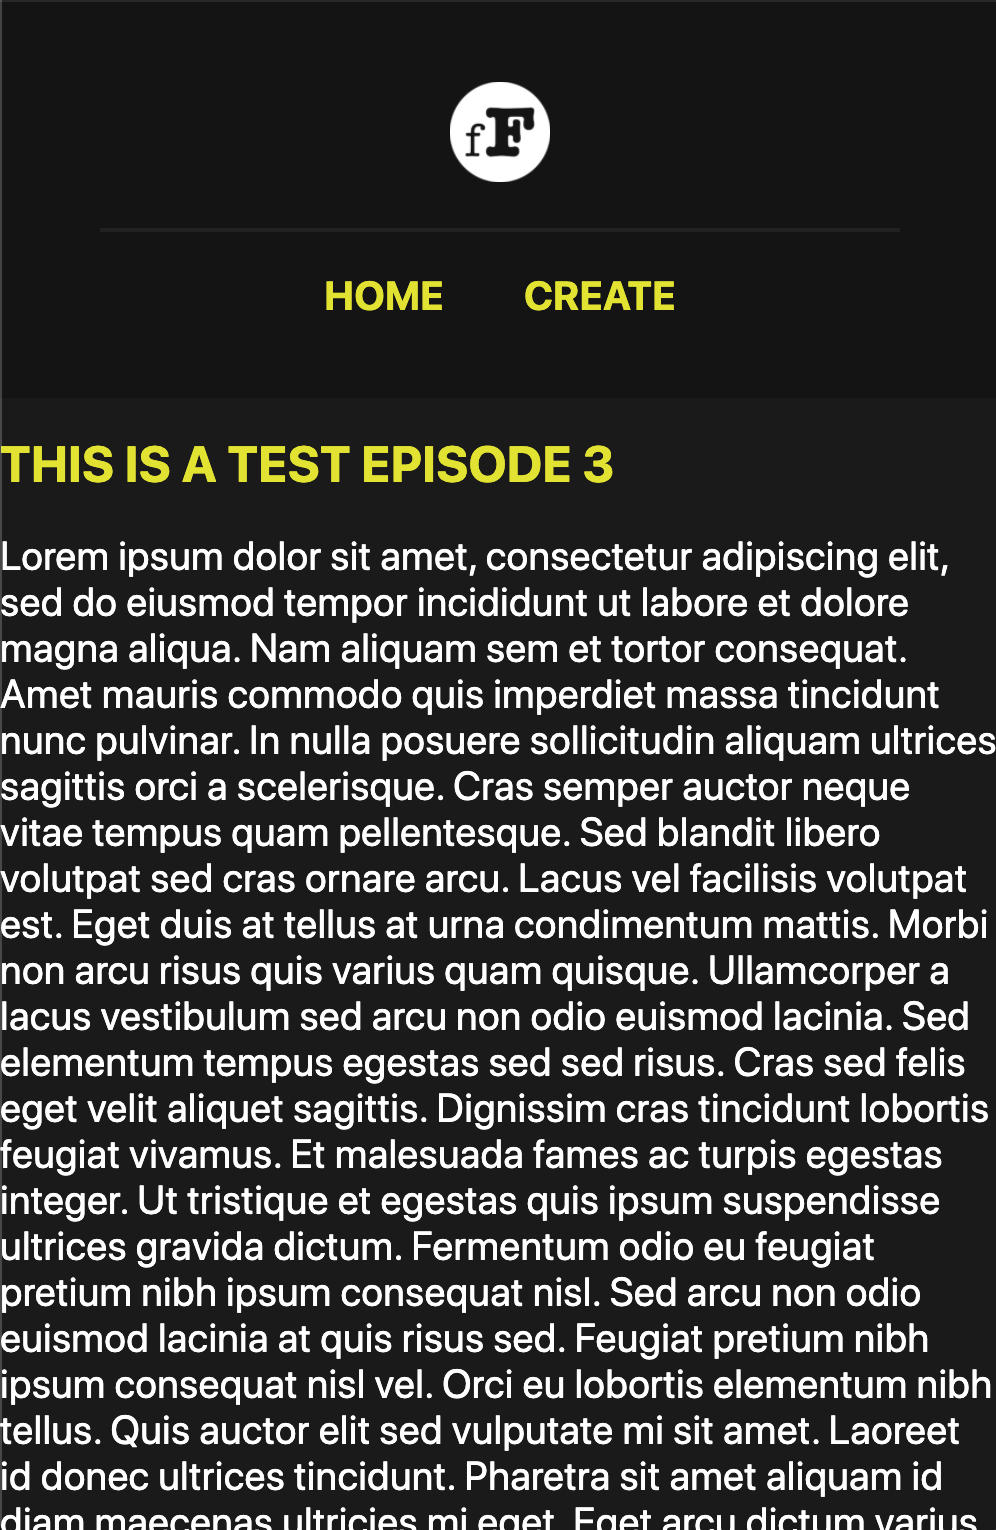
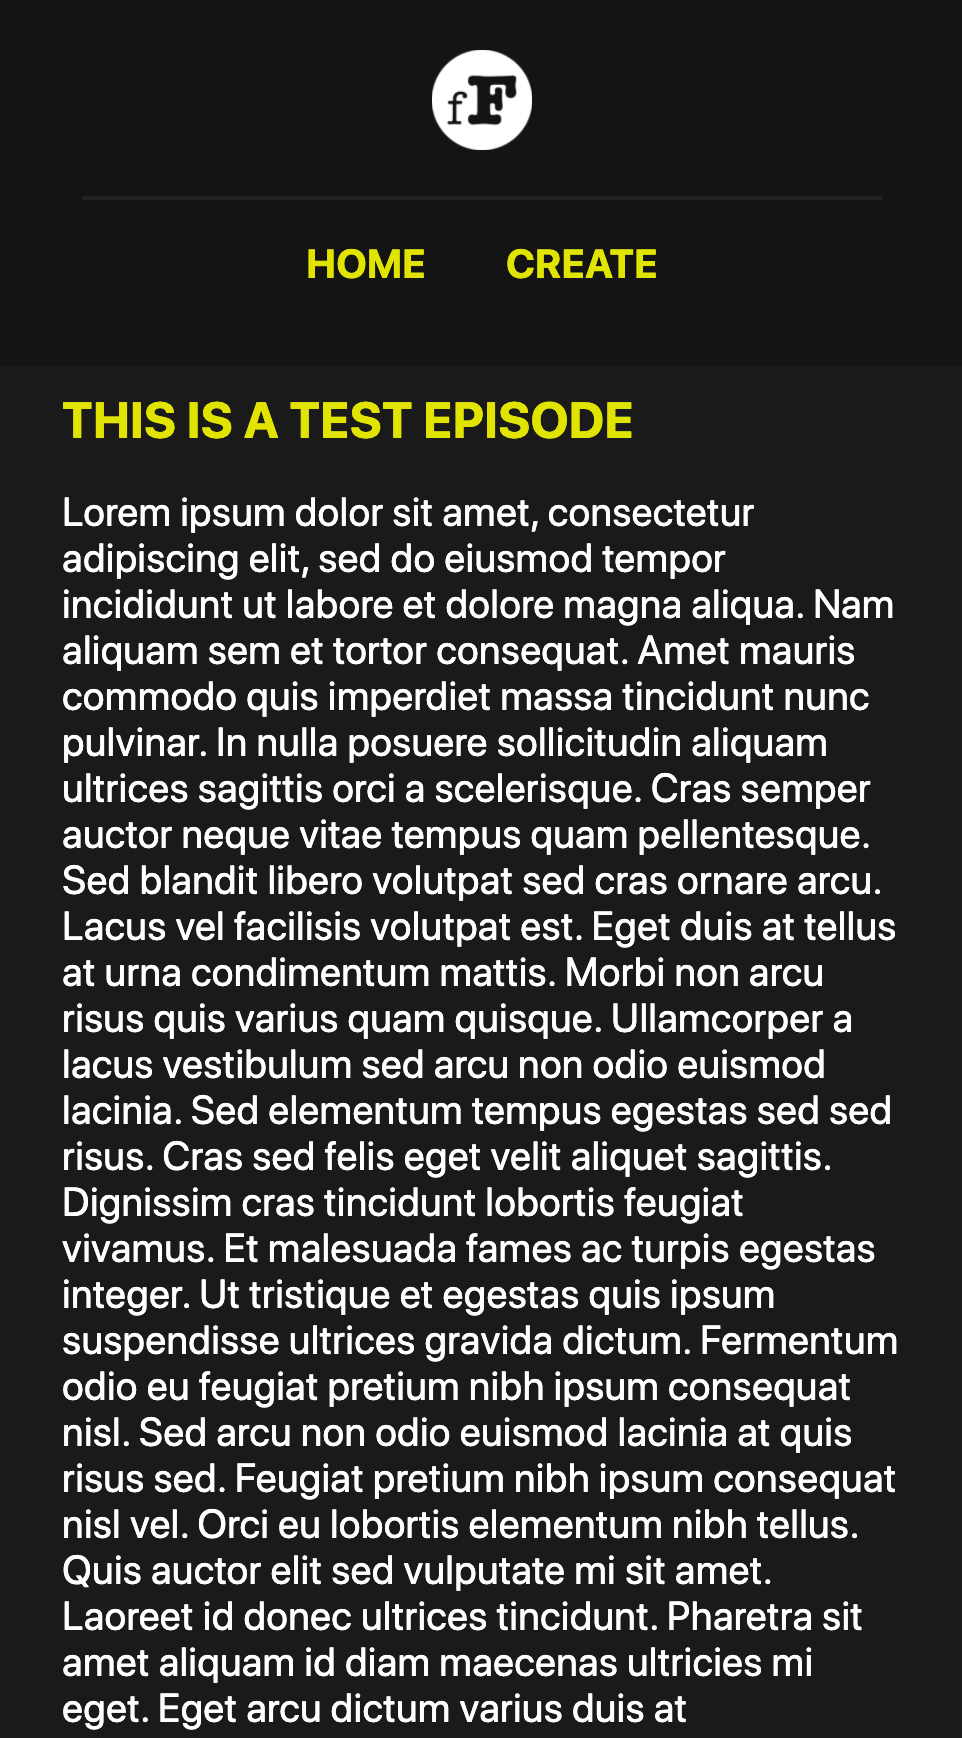
edited README

Changed region(s): [[0.0, 0.0307, 1.0, 1.0]]

diff --git a/src/routes/EpisodePage/EpisodePage.css b/src/routes/EpisodePage/EpisodePage.css
@@ -1,26 +1,25 @@
 .EpisodePage {
-    margin-top: 20px;
-    margin-left: 300px;
-    margin-right: 300px;
-    width: 100%;
+    margin-top: 210px;
+    width: fit-content;
     color: white;
+    padding: 0 40px;
     /* display: flex; */
     /* justify-content: center; */
     /* align-items: center; */
     /* flex-direction: column; */
 }
 
-.content-wrap {
+/* .content-wrap {
     width: 100%;
     display: flex;
     flex-direction: column;
     align-items: center;
     padding: 100px;
-}
+} */
 
 .ep-title {
     font-size: 25px;
-    margin-top: 210px;
+    margin-top: 20px;
     color: #e1e400;
     text-transform: uppercase;
 }
@@ -29,13 +28,14 @@
     font-size: 20px;
     margin-top: 20px;
     margin-bottom: 75px;
+    width: fit-content;
 }
 
 @media only screen and (min-width: 1000px) {
     .EpisodePage {
         margin-top: 20px;
-        margin-left: 300px;
-        margin-right: 300px;
+        margin-left: 150px;
+        margin-right: 150px;
         color: white;
     }
     
